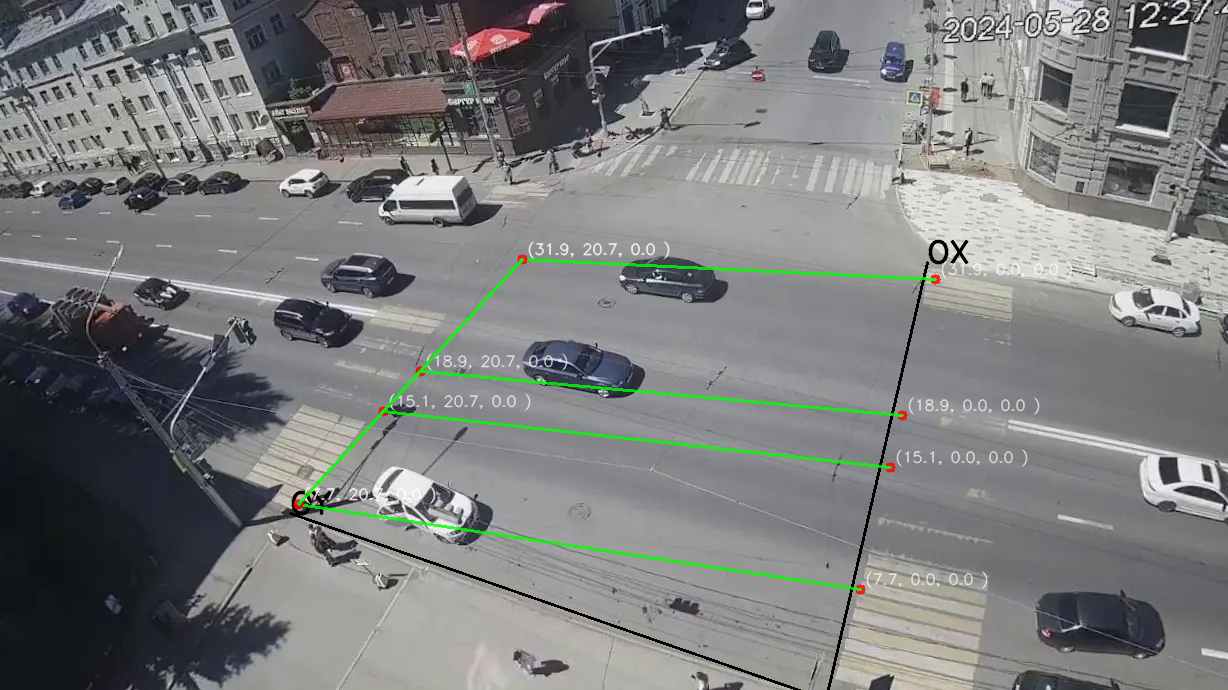
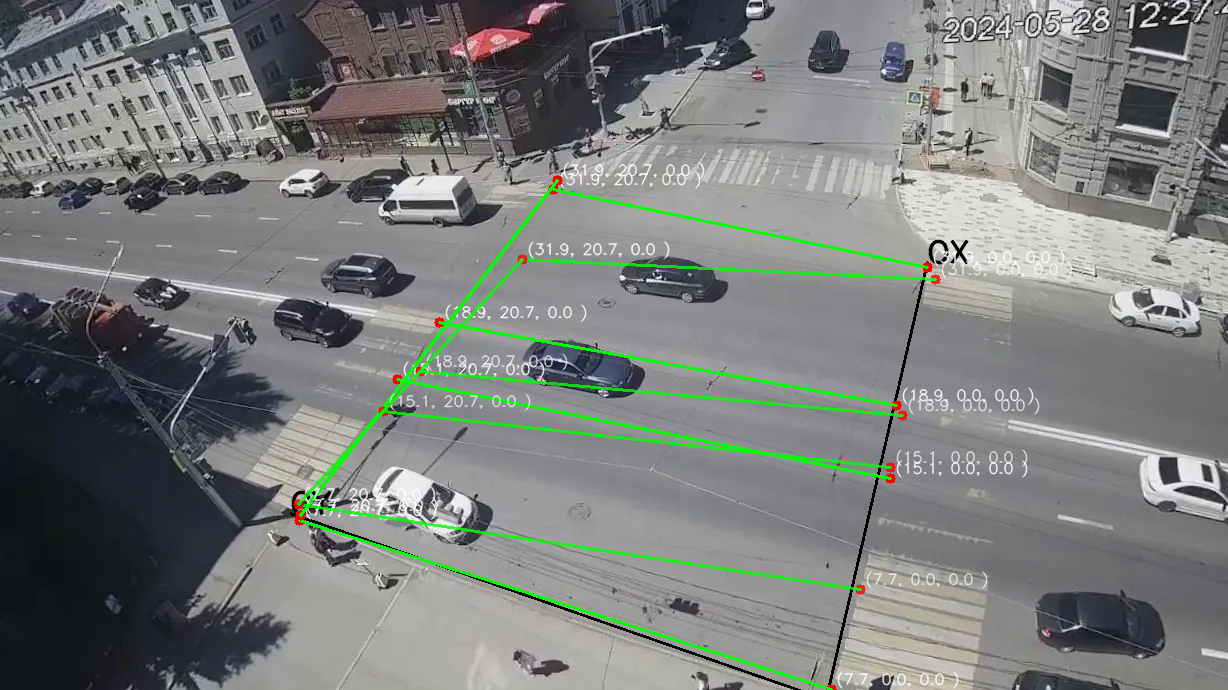
Правки

diff --git a/src/main.py b/src/main.py
@@ -42,5 +42,5 @@ camera, info = optimize.optimize(lines_from_Point)
 print(info.x)
 
 plot = Plot(camera)
-# plot.draw_calibration_line(lines_from_Point)
+plot.draw_calibration_line(lines_from_Point,save=True)
 plot.draw_tranform_coord(lines_from_Point,save=True)
